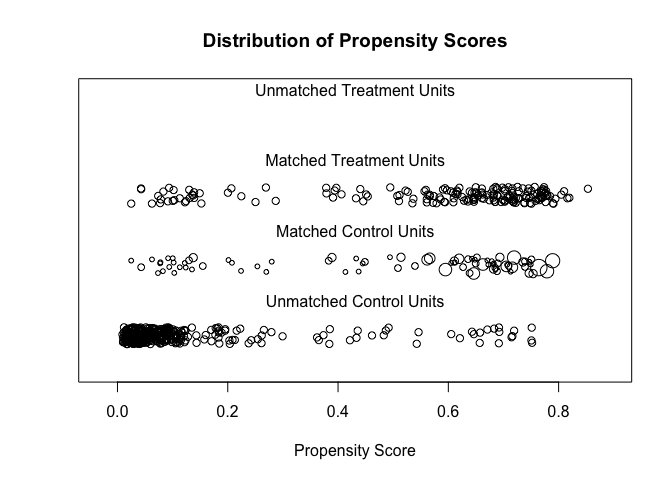
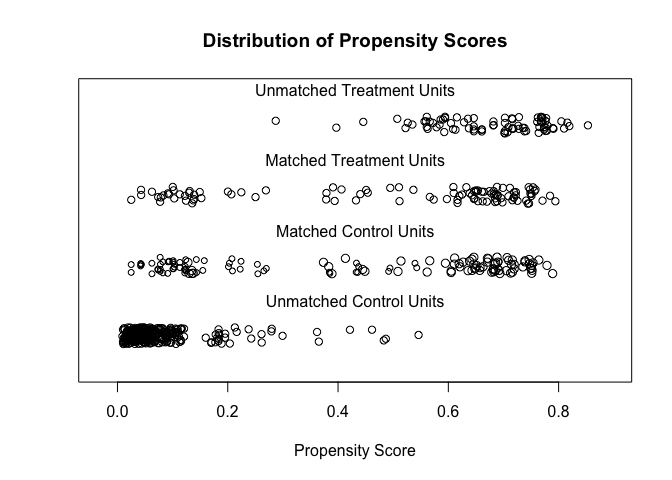
Update

diff --git a/README.md b/README.md
@@ -17,16 +17,17 @@ matching, genetic matching, exact matching, coarsened exact matching,
 and subclassification, some of which rely on functions from other R
 packages. A variety of methods to estimate propensity scores for
 propensity score matching are included. Below is an example of the use
-of `MatchIt` to perform nearest neighbor propensity score matching with
-replacement and assessing overlap and balance:
+of `MatchIt` to perform 2:1 nearest neighbor propensity score matching
+with a propensity score caliper and assessing overlap and balance:
 
 ``` r
 library("MatchIt")
 data("lalonde", package = "MatchIt")
 
-#Nearest neighbor PS matching with replacement
+#Nearest neighbor PS matching with replacement and a caliper
 m.out <- matchit(treat ~ age + educ + race + married + nodegree +
-                     re74 + re75, data = lalonde, replace = TRUE)
+                     re74 + re75, data = lalonde, 
+                 ratio = 2, caliper = .025)
 ```
 
 Printing the `MatchIt` object provides details of the kind of matching
@@ -37,10 +38,11 @@ print(m.out)
 ```
 
     #> A matchit object
-    #>  - method: 1:1 nearest neighbor matching with replacement
-    #>  - distance: Propensity score
+    #>  - method: 2:1 nearest neighbor matching without replacement
+    #>  - distance: Propensity score [matching, caliper]
     #>               - estimated with logistic regression
-    #>  - number of obs.: 614 (original), 265 (matched)
+    #>  - caliper: 0.025 SD
+    #>  - number of obs.: 614 (original), 234 (matched)
     #>  - target estimand: ATT
     #>  - covariates: age, educ, race, married, nodegree, re74, re75
 
@@ -55,10 +57,8 @@ plot(m.out, type = "jitter", interactive = FALSE)
 <img src="inst/figures/README-unnamed-chunk-4-1.png" style="display: block; margin: auto;" />
 
 With this we can see that most of the unmatched control units had small
-propensity scores, making them unlike the treated group. Control units
-with higher propensity scores were matched to multiple treated units as
-indicated by their larger circles in the plot. Other plots are available
-to view the distributions of propensity scores and covariates.
+propensity scores, making them unlike the treated group. Other plots are
+available to view the distributions of propensity scores and covariates.
 
 We can check covariate balance for the original and matched samples
 using `summary()`:
@@ -71,7 +71,7 @@ summary(m.out)
     #> 
     #> Call:
     #> matchit(formula = treat ~ age + educ + race + married + nodegree + 
-    #>     re74 + re75, data = lalonde, replace = TRUE)
+    #>     re74 + re75, data = lalonde, caliper = 0.025, ratio = 2)
     #> 
     #> Summary of Balance for All Data:
     #>            Means Treated Means Control Std. Mean Diff. eCDF Med eCDF Mean eCDF Max
@@ -89,35 +89,35 @@ summary(m.out)
     #> 
     #> Summary of Balance for Matched Data:
     #>            Means Treated Means Control Std. Mean Diff. eCDF Med eCDF Mean eCDF Max
-    #> distance          0.5774        0.5765          0.0042   0.0000    0.0030   0.0486
-    #> age              25.8162       24.1027          0.1589   0.0351    0.0766   0.3405
-    #> educ             10.3459       10.3784         -0.0114   0.0108    0.0216   0.0595
-    #> raceblack         0.8432        0.8378          0.0134   0.0054    0.0054   0.0054
-    #> racehispan        0.0595        0.0649         -0.0155   0.0054    0.0054   0.0054
-    #> racewhite         0.0973        0.0973          0.0000   0.0000    0.0000   0.0000
-    #> married           0.1892        0.1297          0.1188   0.0595    0.0595   0.0595
-    #> nodegree          0.7081        0.7027          0.0110   0.0054    0.0054   0.0054
-    #> re74           2095.5737     2336.4629         -0.0355   0.0108    0.0406   0.2162
-    #> re75           1532.0553     1503.9290          0.0085   0.0324    0.0680   0.2378
+    #> distance          0.4962        0.4937          0.0110   0.0000    0.0043   0.0392
+    #> age              25.3627       25.5637         -0.0186   0.0711    0.0800   0.2157
+    #> educ             10.2549       10.4216         -0.0584   0.0196    0.0237   0.0784
+    #> raceblack         0.7157        0.7157          0.0000   0.0000    0.0000   0.0000
+    #> racehispan        0.1078        0.1078          0.0000   0.0000    0.0000   0.0000
+    #> racewhite         0.1765        0.1765          0.0000   0.0000    0.0000   0.0000
+    #> married           0.2059        0.2157         -0.0196   0.0098    0.0098   0.0098
+    #> nodegree          0.6765        0.6422          0.0699   0.0343    0.0343   0.0343
+    #> re74           2409.1384     2573.6987         -0.0242   0.0147    0.0528   0.2598
+    #> re75           1704.2015     1721.3424         -0.0052   0.0294    0.0391   0.1275
     #> 
     #> Percent Balance Improvement:
     #>            Std. Mean Diff. eCDF Med eCDF Mean eCDF Max
-    #> distance              99.8    100.0      99.2     92.5
-    #> age                   22.6     57.5       5.8   -115.9
-    #> educ                  70.7     52.5      37.7     46.6
-    #> raceblack             99.2     99.2      99.2     99.2
-    #> racehispan            93.5     93.5      93.5     93.5
+    #> distance              99.4    100.0      98.9     93.9
+    #> age                   90.9     14.1       1.6    -36.7
+    #> educ                 -50.8     13.9      31.6     29.6
+    #> raceblack            100.0    100.0     100.0    100.0
+    #> racehispan           100.0    100.0     100.0    100.0
     #> racewhite            100.0    100.0     100.0    100.0
-    #> married               81.6     81.6      81.6     81.6
-    #> nodegree              95.1     95.1      95.1     95.1
-    #> re74                  93.2     95.4      81.9     51.6
-    #> re75                  97.0     76.1      49.3     17.3
+    #> married               97.0     97.0      97.0     97.0
+    #> nodegree              69.2     69.2      69.2     69.2
+    #> re74                  95.3     93.7      76.5     41.9
+    #> re75                  98.2     78.3      70.8     55.7
     #> 
     #> Sample Sizes:
     #>           Control Treated
     #> All           429     185
-    #> Matched        80     185
-    #> Unmatched     349       0
+    #> Matched       132     102
+    #> Unmatched     297      83
     #> Discarded       0       0
 
 At the top is balance for the original sample. Below that is balance in
